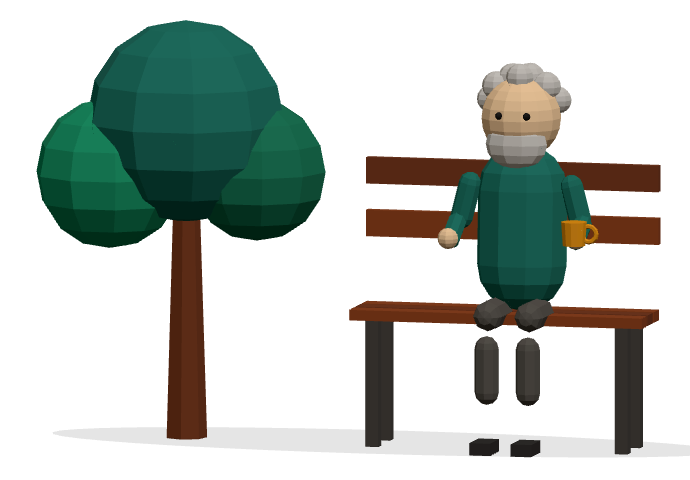
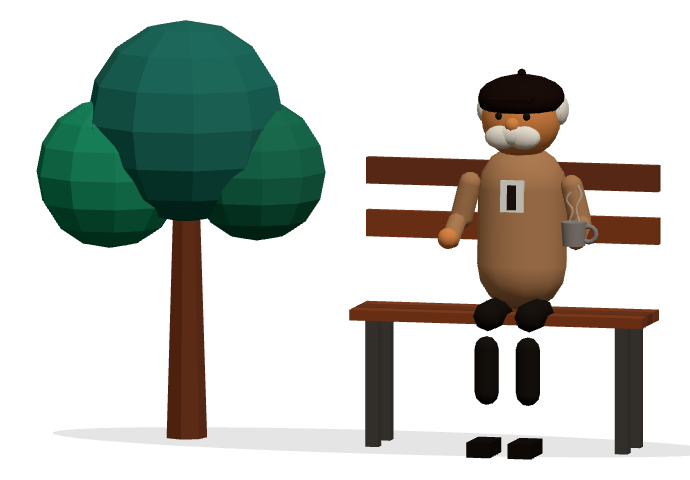
feat(kofi): restyle grandpa to the owner's design reference

Changed region(s): [[0.6391, 0.125, 0.8826, 0.8438], [0.6696, 0.9062, 0.7913, 0.9688]]

diff --git a/src/components/kofi/GrandpaScene.ts b/src/components/kofi/GrandpaScene.ts
@@ -36,19 +36,26 @@ export interface GrandpaSceneHandle {
 }
 
 // ---------------------------------------------------------------------------
-// Palette — matched to the SVG figure this scene replaces.
+// Palette. The set (bench, tree, kettle) keeps the scene's original
+// colours; the man himself is sampled from the owner's design
+// reference (docs/kofi-grandpa-reference.jpg): a flat vintage
+// cartoon — matte colour everywhere, no gloss.
 // ---------------------------------------------------------------------------
 const COLORS = {
   woodLight: 0x92400e,
   woodDark: 0x78350f,
   benchLeg: 0x44403c,
-  sweater: 0x0f7668,
-  skin: 0xfed7aa,
-  hair: 0xd6d3d1,
-  trousers: 0x57534e,
-  shoe: 0x292524,
+  cap: 0x1d100c, // near-black warm brown flat cap
+  skin: 0xef9550, // peach-orange
+  hair: 0xfdf8ec, // warm white — side hair and the big round mustache
+  blazer: 0xc08a5e, // tan/camel jacket
+  shirt: 0xfdfcf8, // white shirt front
+  tie: 0x241a14, // dark tie
+  trousers: 0x1c1713, // black
+  shoe: 0x17120f, // black, oversized
   eye: 0x1c1917,
-  mug: 0xf59e0b,
+  mug: 0x98908c, // grey mug
+  steam: 0xe7e2da, // pale steam curls
   kettle: 0xa8a29e,
   kettleDark: 0x78716c,
   stream: 0x38bdf8,
@@ -59,9 +66,19 @@ const COLORS = {
 // Small helpers.
 // ---------------------------------------------------------------------------
 
-/** A flat-shaded standard material — the one material style for the scene. */
+/** A flat-shaded standard material — the material style for the set and props. */
 function flat(color: number, extra: Partial<THREE.MeshStandardMaterialParameters> = {}): THREE.MeshStandardMaterial {
   return new THREE.MeshStandardMaterial({ color, roughness: 0.9, metalness: 0, flatShading: true, ...extra });
+}
+
+/**
+ * A flat matte material for the character himself — Lambert: a pure
+ * colour response with no specular gloss, like the reference's flat
+ * inks. (Toon shading without a gradient map bands unpredictably
+ * under this rig's hemisphere + directional mix.)
+ */
+function toon(color: number): THREE.MeshLambertMaterial {
+  return new THREE.MeshLambertMaterial({ color });
 }
 
 function mesh(geometry: THREE.BufferGeometry, material: THREE.Material): THREE.Mesh {
@@ -234,8 +251,8 @@ function buildScene(): BuiltScene {
   // Legs: hip pivot → thigh, knee pivot → shin, ankle pivot → shoe.
   // Child offsets are (today's mesh centre − pivot position), so at zero
   // rotation every mesh lands exactly where the pre-rig build put it.
-  const trouserMat = flat(COLORS.trousers);
-  const shoeMat = flat(COLORS.shoe);
+  const trouserMat = toon(COLORS.trousers);
+  const shoeMat = toon(COLORS.shoe);
   const buildLeg = (side: -1 | 1) => {
     const hipPivot = new THREE.Group();
     hipPivot.position.set(gx + side * 0.24, 1.58, 0.02);
@@ -252,8 +269,10 @@ function buildScene(): BuiltScene {
     const anklePivot = new THREE.Group();
     anklePivot.position.set(0, -0.98, -0.04);
     kneePivot.add(anklePivot);
-    const shoe = mesh(new THREE.BoxGeometry(0.24, 0.14, 0.44), shoeMat);
-    shoe.position.set(0, -0.43, 0.1);
+    // Oversized black shoes, per the reference — same ankle anchor,
+    // just more shoe around it.
+    const shoe = mesh(new THREE.BoxGeometry(0.27, 0.17, 0.57), shoeMat);
+    shoe.position.set(0, -0.43, 0.12);
     anklePivot.add(shoe);
     hipsGroup.add(hipPivot);
     return { hipPivot, kneePivot, anklePivot };
@@ -261,22 +280,33 @@ function buildScene(): BuiltScene {
   const legL = buildLeg(-1);
   const legR = buildLeg(1);
 
-  // Torso in the teal sweater; breathing scales this mesh.
-  const torso = mesh(new THREE.CapsuleGeometry(0.52, 0.85, 4, 10), flat(COLORS.sweater));
+  // Torso in the tan blazer; breathing scales this mesh.
+  const torso = mesh(new THREE.CapsuleGeometry(0.52, 0.85, 4, 10), toon(COLORS.blazer));
   torso.position.set(gx, 2.5, -0.05);
   torso.rotation.x = -0.06;
   hipsGroup.add(torso);
 
+  // White shirt front + dark tie on the chest: flat panels half-sunk
+  // into the capsule, so only their front faces show.
+  const shirt = mesh(new THREE.BoxGeometry(0.27, 0.36, 0.07), toon(COLORS.shirt));
+  shirt.position.set(gx, 2.91, 0.43);
+  shirt.rotation.x = -0.06;
+  hipsGroup.add(shirt);
+  const tie = mesh(new THREE.BoxGeometry(0.1, 0.28, 0.03), toon(COLORS.tie));
+  tie.position.set(gx, 2.9, 0.48);
+  tie.rotation.x = -0.06;
+  hipsGroup.add(tie);
+
   // Resting arm (viewer's left): shoulder down to a hand on the thigh.
-  const sweaterMat = flat(COLORS.sweater);
-  const skinMat = flat(COLORS.skin);
+  const blazerMat = toon(COLORS.blazer);
+  const skinMat = toon(COLORS.skin);
   const restArm = new THREE.Group();
   restArm.position.set(gx - 0.56, 3.08, 0);
-  const restUpper = mesh(new THREE.CapsuleGeometry(0.13, 0.4, 3, 8), sweaterMat);
+  const restUpper = mesh(new THREE.CapsuleGeometry(0.13, 0.4, 3, 8), blazerMat);
   restUpper.position.set(-0.08, -0.28, 0.02);
   restUpper.rotation.z = -0.25;
   restArm.add(restUpper);
-  const restFore = mesh(new THREE.CapsuleGeometry(0.11, 0.34, 3, 8), sweaterMat);
+  const restFore = mesh(new THREE.CapsuleGeometry(0.11, 0.34, 3, 8), blazerMat);
   restFore.position.set(-0.16, -0.6, 0.28);
   restFore.rotation.x = -1.1;
   restArm.add(restFore);
@@ -289,11 +319,11 @@ function buildScene(): BuiltScene {
   // refill can raise the forearm + mug toward the body.
   const mugArm = new THREE.Group();
   mugArm.position.set(gx + 0.56, 3.08, 0);
-  const mugUpper = mesh(new THREE.CapsuleGeometry(0.13, 0.4, 3, 8), sweaterMat);
+  const mugUpper = mesh(new THREE.CapsuleGeometry(0.13, 0.4, 3, 8), blazerMat);
   mugUpper.position.set(0.08, -0.28, 0.02);
   mugUpper.rotation.z = 0.25;
   mugArm.add(mugUpper);
-  const mugFore = mesh(new THREE.CapsuleGeometry(0.11, 0.34, 3, 8), sweaterMat);
+  const mugFore = mesh(new THREE.CapsuleGeometry(0.11, 0.34, 3, 8), blazerMat);
   mugFore.position.set(0.18, -0.58, 0.28);
   mugFore.rotation.x = -1.15;
   mugArm.add(mugFore);
@@ -301,19 +331,32 @@ function buildScene(): BuiltScene {
   mugHand.position.set(0.2, -0.62, 0.52);
   mugArm.add(mugHand);
 
-  // The amber mug, held at lap height at rest — and in his hand through
+  // The grey mug, held at lap height at rest — and in his hand through
   // the whole walk (the mug arm keeps its seated bend; only its shoulder
   // swings, a few degrees, so nothing spills).
   const mugGroup = new THREE.Group();
   mugGroup.position.set(0.2, -0.55, 0.62);
-  const mugBody = mesh(
-    new THREE.CylinderGeometry(0.15, 0.13, 0.27, 12),
-    flat(COLORS.mug, { roughness: 0.55 }),
-  );
+  const mugBody = mesh(new THREE.CylinderGeometry(0.15, 0.13, 0.27, 12), toon(COLORS.mug));
   mugGroup.add(mugBody);
-  const mugHandle = mesh(new THREE.TorusGeometry(0.09, 0.028, 6, 12), flat(COLORS.mug, { roughness: 0.55 }));
+  const mugHandle = mesh(new THREE.TorusGeometry(0.09, 0.028, 6, 12), toon(COLORS.mug));
   mugHandle.position.x = 0.17;
   mugGroup.add(mugHandle);
+  // Two thin steam curls over the mug — the reference's signature
+  // wisps. Children of the mug group, so they ride the walk and the
+  // refill raise with it; they stand ~0.44 clear of where the kettle
+  // hovers during the pour, so the two never meet.
+  const steamMat = new THREE.MeshLambertMaterial({ color: COLORS.steam, transparent: true, opacity: 0.55 });
+  const steamCurl = (x: number, height: number, sway: number): THREE.Mesh => {
+    const curve = new THREE.CatmullRomCurve3([
+      new THREE.Vector3(x, 0.14, 0),
+      new THREE.Vector3(x + sway, 0.14 + height * 0.38, 0),
+      new THREE.Vector3(x - sway, 0.14 + height * 0.72, 0),
+      new THREE.Vector3(x + sway * 0.6, 0.14 + height, 0),
+    ]);
+    return mesh(new THREE.TubeGeometry(curve, 12, 0.016, 5), steamMat);
+  };
+  mugGroup.add(steamCurl(-0.05, 0.34, 0.035));
+  mugGroup.add(steamCurl(0.06, 0.42, -0.03));
   mugArm.add(mugGroup);
   hipsGroup.add(mugArm);
 
@@ -323,31 +366,62 @@ function buildScene(): BuiltScene {
   const head = mesh(new THREE.SphereGeometry(0.46, 14, 12), skinMat);
   head.position.y = 0.44;
   headGroup.add(head);
-  // Grey curls: a small arc of spheres over the top and back of the head.
-  const hairMat = flat(COLORS.hair);
-  const curlSpecs: Array<[number, number, number, number]> = [
-    [-0.3, 0.78, -0.05, 0.17],
-    [-0.12, 0.86, -0.1, 0.18],
-    [0.08, 0.87, -0.1, 0.18],
-    [0.28, 0.79, -0.05, 0.17],
-    [-0.4, 0.62, -0.14, 0.15],
-    [0.4, 0.63, -0.14, 0.15],
-    [0, 0.9, 0.08, 0.16],
+  // White hair: flattened tufts swept at the sides and back of the
+  // head — the top of the head belongs to the cap. Children of the
+  // head group like everything else here, so the sway/blink
+  // choreography and the seated zero pose are untouched.
+  const hairMat = toon(COLORS.hair);
+  const tuftSpecs: Array<[number, number, number, number, [number, number, number]]> = [
+    // [x, y, z, radius, scale] — flattened against the skull
+    [-0.42, 0.52, -0.08, 0.2, [0.55, 0.85, 0.95]],
+    [0.42, 0.52, -0.08, 0.2, [0.55, 0.85, 0.95]],
+    [0, 0.56, -0.38, 0.26, [1.2, 0.75, 0.55]],
   ];
-  for (const [x, y, z, r] of curlSpecs) {
-    const curl = mesh(new THREE.SphereGeometry(r, 8, 8), hairMat);
-    curl.position.set(x, y, z);
-    headGroup.add(curl);
+  for (const [x, y, z, r, s] of tuftSpecs) {
+    const tuft = mesh(new THREE.SphereGeometry(r, 10, 8), hairMat);
+    tuft.scale.set(s[0], s[1], s[2]);
+    tuft.position.set(x, y, z);
+    headGroup.add(tuft);
   }
-  // Beard: a flattened sphere tucked under the chin, front of the face.
-  const beard = mesh(new THREE.SphereGeometry(0.34, 10, 8), hairMat);
-  beard.scale.set(1.05, 0.85, 0.6);
-  beard.position.set(0, 0.16, 0.24);
-  headGroup.add(beard);
+  // The flat cap: a squashed sphere hugging the skull (its lower half
+  // is inside the head, so rim and skull meet with no gap), a short
+  // brim over the face, and the little button on top.
+  const capMat = toon(COLORS.cap);
+  const capDome = mesh(new THREE.SphereGeometry(0.5, 14, 10), capMat);
+  capDome.scale.set(1, 0.52, 1);
+  capDome.position.y = 0.66;
+  capDome.rotation.x = 0.06;
+  headGroup.add(capDome);
+  const capBrim = mesh(new THREE.BoxGeometry(0.5, 0.04, 0.26), capMat);
+  capBrim.position.set(0, 0.7, 0.44);
+  capBrim.rotation.x = 0.1;
+  headGroup.add(capBrim);
+  const capButton = mesh(new THREE.SphereGeometry(0.05, 8, 6), capMat);
+  capButton.position.set(0, 0.94, -0.02);
+  headGroup.add(capButton);
+  // Nose: a small round knob nestled into the top of the mustache.
+  const nose = mesh(new THREE.SphereGeometry(0.09, 8, 8), skinMat);
+  nose.position.set(0, 0.4, 0.44);
+  headGroup.add(nose);
+  // The mustache — the reference's dominant feature, and the end of
+  // the old beard (the reference has none): three flattened white
+  // spheres fused into one big round mass under the nose.
+  const mustacheSpecs: Array<[number, number, number, number]> = [
+    // [x, y, z, radius]
+    [-0.13, 0.26, 0.42, 0.17],
+    [0.13, 0.26, 0.42, 0.17],
+    [0, 0.29, 0.44, 0.15],
+  ];
+  for (const [x, y, z, r] of mustacheSpecs) {
+    const lobe = mesh(new THREE.SphereGeometry(r, 10, 8), hairMat);
+    lobe.scale.set(1.15, 0.8, 0.62);
+    lobe.position.set(x, y, z);
+    headGroup.add(lobe);
+  }
   // Eyes in their own group so a blink is one scale change.
   const eyesGroup = new THREE.Group();
   eyesGroup.position.y = 0.5;
-  const eyeMat = flat(COLORS.eye, { roughness: 0.4 });
+  const eyeMat = toon(COLORS.eye);
   for (const side of [-1, 1]) {
     const eye = mesh(new THREE.SphereGeometry(0.045, 6, 6), eyeMat);
     eye.position.set(side * 0.16, 0, 0.42);

diff --git a/EVIDENCE_LOG.md b/EVIDENCE_LOG.md
@@ -37,3 +37,12 @@ Append-only record of completed work: what was attempted, what happened, and wha
 - **QA catch during the build (fixed, not shipped):** the container's `max-[480px]:w-[196px]` class sat directly against a template-literal interpolation and Tailwind's extractor silently dropped it (mobile rendered 228px wide). Found by measuring the recorded build, fixed with a space before the interpolation, re-verified in CSS and by measurement (196px).
 - **Deviations from the Game Designer spec, on record:** shoulder-only arm swing during the walk (no elbow pivots) — the mug arm keeps its exact refill pivot contract and the mug stays in hand throughout; the difference is not visible at widget size. The sprite route in the local-page-mascot skill was not used: the owner ordered Three.js; the skill's one-character-definition principle is what the rendered still implements.
 - **Blocker:** none. Same go-live requirement as before: `VITE_KOFI_URL` per deploy target.
+
+## 2026-10-23 — Ko-fi grandpa restyle to the owner's design reference
+
+- **Tier:** T2 (Manifest + council per §4/§5: Chair + C, round 1 PASS, Chair no veto). The owner's design reference — a flat vintage cartoon grandpa in side profile, steaming mug in hand — is copied into the repo as `docs/kofi-grandpa-reference.jpg` and is the look's source of truth.
+- **Task:** Restyle the procedural grandpa in `GrandpaScene.ts` to the reference: dark flat cap (dome, brim, top button), white hair swept at the sides/back, the large round white mustache (three fused spheres — replacing the beard outright; the reference has none), a small nose above it, peach-orange skin, tan blazer with a white shirt front and dark tie, black trousers, oversized black shoes, and the mug restyled grey with two thin steam curls (children of the mug group — they ride the walk and the refill raise, and clear the kettle's pour position by ~0.44 horizontally). Character materials switch from flat-shaded Standard to Lambert — flat matte colour, no gloss (Manifest rejected toon-without-gradient-map: banding is unpredictable under this rig's hemisphere + directional mix). Palette sampled from the reference's pixels (skin `#ff994e`, blazer `#c78c65`, cap near-black `#150001`, mug grey). Look only: no pivot, pose, timing, or behaviour change — every new mesh is a child of an existing group, the seated zero pose is bit-identical, and the mug arm keeps its exact refill pivot contract. `grandpa-seated.png` re-rendered from the restyled scene by the same script (39,856 bytes, inside its 150 KB budget), so the fallback still is the same new character in every non-live state.
+- **Files:** `src/components/kofi/GrandpaScene.ts`, `src/components/kofi/grandpa-seated.png` (generated), `docs/kofi-grandpa-reference.jpg` (new), `EVIDENCE_LOG.md`.
+- **Evidence:** Test: N/A, no behaviour change (per the Manifest) — the guard is the existing suite, untouched and green: full suite **410/410**, `tsc -b` clean, oxlint 0 errors. Production build with `VITE_KOFI_URL` set: green, snapshot-budget OK; ask copy only in the lazy `KofiBench-*.js` chunk (entry chunk: 0 hits), Three.js only in `GrandpaScene-*.js`. Recorded Playwright journeys on the production preview: **12/12 checks** — no cloud mid-walk, ask after the sit, bench visible and non-intersecting beside the open Q&A panel at 1280px, yield at 390px plus return on panel close, confirm flow, Continue popup URL captured (`https://ko-fi.com/thesaltandpepperguy`), zero page errors. Frames inspected before delivery: the re-rendered still, a mid-walk frame (he passes the tree in near-profile — cap, stride, and mug read), the seated frame with the cloud, and a 3× close-up cropped from the still harness. One build-time catch, fixed in the round: the first shirt/tie panels read as a long bib — shortened to a collar V before the final render.
+- **Deviations, plain:** (1) The reference is a 2D side-profile drawing; the scene's seated view is the established gentle ¾ front, so the profile likeness is carried during the walk (root yaw 1.26 rad) rather than at rest — the camera and framing were not changed. (2) The head sphere keeps its size: the cap + mustache mass carries the reference's "large head" read, because scaling the sphere would drift the eye/blink anchors for marginal gain. (3) The reference's bold ink outlines have no honest equivalent on a primitive-built 3D figure at widget size and were not faked.
+- **Blocker:** none. Same go-live requirement as before: `VITE_KOFI_URL` per deploy target.
